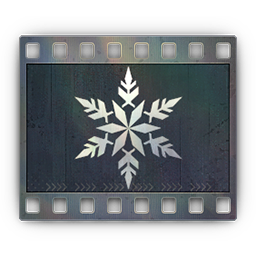
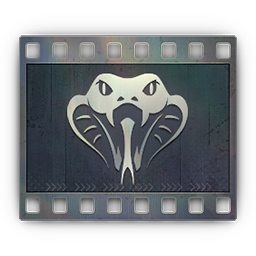
handbook: teambuilding section update

Changed region(s): [[0.25, 0.25, 0.75, 0.75]]

diff --git a/lib/handbook/team.md b/lib/handbook/team.md
@@ -345,7 +345,7 @@ You get a lot of free healing by using Crimson Furnace. Embryos let you exalt mo
 
 **Play more cards, take extra turns.**
 
-Ultra is the strongest support realm. Its realm mechanics are simply the most powerful. Ultra supports like [Clementine](/handbook/awakeners/clementine/) and [Horla](/handbook/awakeners/horla/) are extra valuable because they also give access to Annihilation and Ultra Rounds.
+Ultra gives you more cards and arithmetica, so you can do more stuff each turn. It's one of the best support realms for characters that rely on command cards, like [GHelot](/handbook/awakeners/ghelot/) and [Mouchette](/handbook/awakeners/mouchette/).
 
 **Pure Ultra depends on how good your characters are.** If you aren’t in Aequor or Caro, you don’t have free damage, shields, or healing — your cards are all you have. Your characters need to function all by themselves, and you might need a defensive character like [Lily](/handbook/awakeners/lily/) or [Castor](/handbook/awakeners/castor/) to survive long fights.
 

diff --git a/lib/handbook/changelog.md b/lib/handbook/changelog.md
@@ -8,6 +8,7 @@ icon: lucide/file-clock
 
 | Date | Notes |
 | --: | :-- |
+| **29 Oct 2026** | Fixed wrong image for Obsession Eternal. Updated Ultra description in teambuilding guide. |
 | **26 Oct 2026** | Made small updates to Doll, GDoll, Ogier, Nymphaea, Ramona, and Sanga guides. |
 | **25 Oct 2026** | Updated Alva and Doll guides. Rewrote guides for Nymphaea, Sanga, Faint, and Jenkin. Moved Alva up to B tier in the endgame tierlist. |
 | **20 Oct 2026** | Added Vivian tierlist and placeholder build. |

diff --git a/lib/handbook/index.md b/lib/handbook/index.md
@@ -22,7 +22,7 @@ icon: lucide/book-open
 
 !!! note ""
 
-    Last updated 26 October 2026 (V2.6.2.2 - Vivian)
+    Last updated 29 October 2026 (V2.6.2.2 - Vivian)
 
 !!! info ""
 
